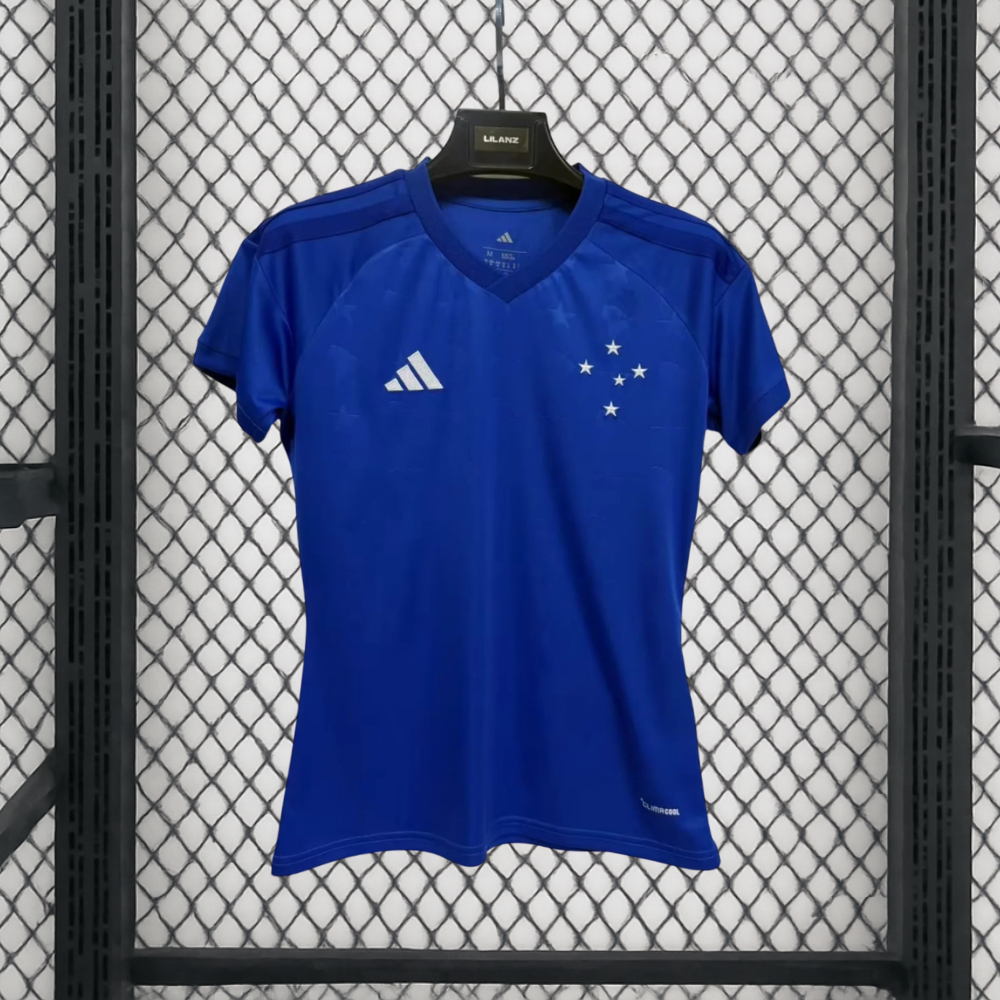
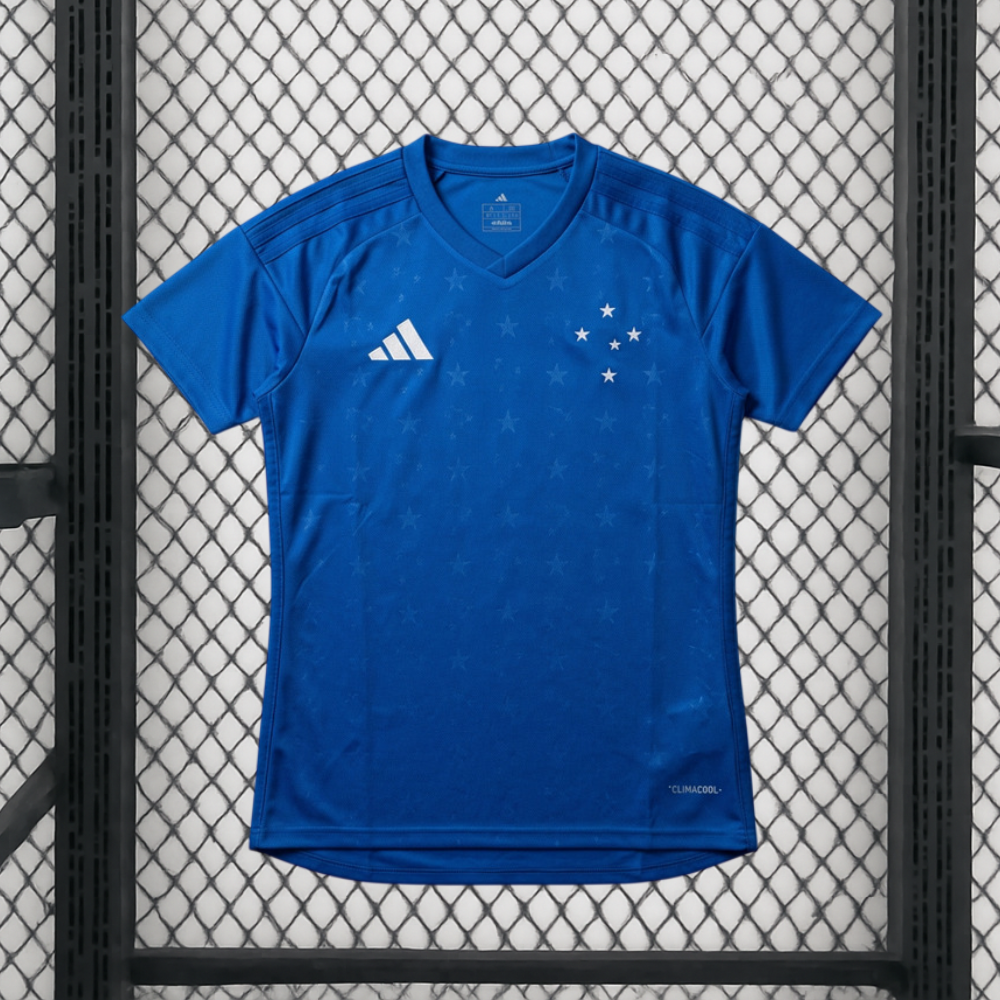
Atualizando

Changed region(s): [[0.124, 0.0, 0.899, 0.899]]

diff --git a/brasil-html/atletico-html/atletico-mg.html b/brasil-html/atletico-html/atletico-mg.html
@@ -16,7 +16,7 @@
         </header>
         <ul>
             <li>
-                <a class="liga" href="atletico-masculino.html"><img class="liga" src="../../brasil/atletico/atletico-masculino.png" alt="Camisa Atlético-MG 2025"></a>
+                <a class="liga" href="atletico-masculino.html"><img class="liga" src="../../brasil/atletico/masculino/camisa1-2026.png" alt="Camisa Atlético-MG 2026"></a>
                 <p>Masculino</p>
             </li>
             <li>
@@ -24,7 +24,7 @@
                 <p>Retrô</p>
             </li>
             <li>
-                <a class="liga" href="atletico-feminino.html"><img class="liga" src="../../brasil/atletico/atletico-feminino.png" alt="Camisa Feminina Atlético-MG 2025"></a>
+                <a class="liga" href="atletico-feminino.html"><img class="liga" src="../../brasil/atletico/feminino/feminino1-2026.png" alt="Camisa Feminina Atlético-MG 2026"></a>
                 <p>Feminino</p>
             </li>
         </ul>

diff --git a/brasil-html/cbf-html/cbf-feminino.html b/brasil-html/cbf-html/cbf-feminino.html
@@ -16,6 +16,14 @@
         </header>
         <ul>
             <li>
+               <img class="liga" src="../../brasil/cbf/feminino/feminino1-2026.png" alt="Camisa I 2026">
+                <p>Camisa I 2026</p>
+            </li>
+            <li>
+                <img class="liga" src="../../brasil/cbf/feminino/feminino2-2026.png" alt="Camisa II 2026">
+                <p>Camisa II 2026</p>
+            </li>
+            <li>
                <img class="liga" src="../../brasil/cbf/feminino/feminino1-2024.png" alt="Camisa I 2024">
                 <p>Camisa I 2024</p>
             </li>

diff --git a/brasil-html/cbf-html/cbf.html b/brasil-html/cbf-html/cbf.html
@@ -24,7 +24,7 @@
                 <p>Retrô</p>
             </li>
             <li>
-                <a class="liga" href="cbf-feminino.html"><img class="liga" src="../../brasil/cbf/feminino/feminino1-2024.png" alt="Camisa Feminina Brasil 2024"></a>
+                <a class="liga" href="cbf-feminino.html"><img class="liga" src="../../brasil/cbf/feminino/feminino1-2026.png" alt="Camisa Feminina Brasil 2024"></a>
                 <p>Feminino</p>
             </li>
         </ul>
